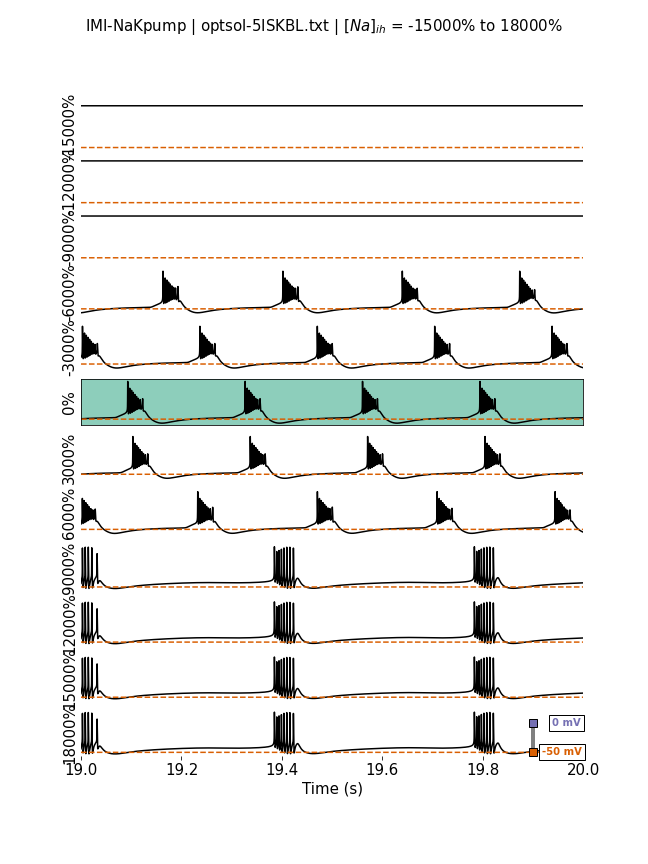
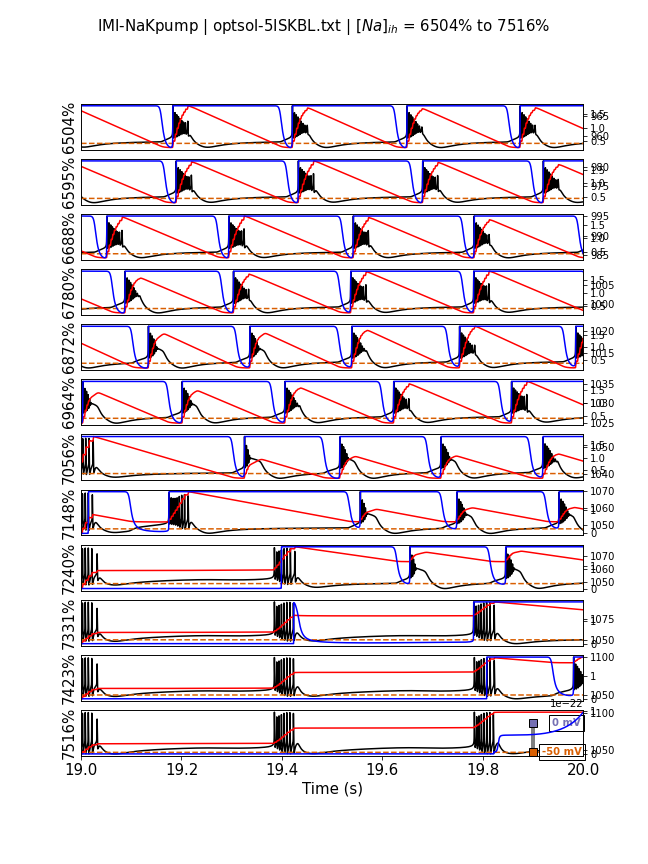
Analyze transition for Na_ih

Changed region(s): [[0.0926, 0.0938, 0.9568, 0.9062], [0.1235, 0.0, 0.6173, 0.0625], [0.6481, 0.0, 0.8642, 0.0625]]

diff --git a/plotpumps.py b/plotpumps.py
@@ -155,12 +155,12 @@ p = originalp.copy()
 np.savetxt(pfname, p)
 #%%
 
-# Plot Na_ih varied from -1500% to 1800% of control
+# Plot Na_ih varied from 6504% to 7516% of control
 fig, axs = plt.subplots(12, sharex=True, figsize=(9,12))
 for i in range(12):
 	# Vary Na_ih by specified factor
 	p = originalp.copy()
-	factor = round((i - 5) * 3, 1)
+	factor = round((i + 70.7) * 0.92, 2)
 	percentage = int(factor * 100)
 	p[42] = p[42] * factor
 	print(f'{p[42] = }')
@@ -174,12 +174,14 @@ for i in range(12):
 
 	# Plot the varied parameter set
 	axs[i].plot(time[time>19], sol[:,0][time>19], color='black')
+	axs[i].twinx().plot(time[time>19], sol[:,-1][time>19], color='red')
+	axs[i].twinx().plot(time[time>19], getipump(p,sol)[time>19], color='blue')
 	axs[i].plot(time[time>19], -50*np.ones(len(sol))[time>19], color='#d95f02', ls='dashed')
 	axs[i].tick_params(left=False, bottom=False, labelleft=False, labelbottom=False)
-	if i != 5:
-		axs[i].set_frame_on(False)
-	else:
-		axs[i].set_facecolor('#1b9e7780')
+	# if i != 5:
+	axs[i].set_frame_on(False)
+	# else:
+		# axs[i].set_facecolor('#1b9e7780')
 	
 	if i == 11:
 		axs[i].vlines(19.9, -50, 0, color='#808080', lw=4, zorder=10)
@@ -200,7 +202,7 @@ for i in range(12):
 	axs[i].set_ylabel(f'{percentage}%', fontsize=15, color='black')
 	axs[i].set_xlim(19,20)
 
-fig.suptitle(f'IMI-NaKpump | {pfname} | $[Na]_{{ih}}$ = -1500% to 1800%', fontsize=15)
+fig.suptitle(f'IMI-NaKpump | {pfname} | $[Na]_{{ih}}$ = 6504% to 7516%', fontsize=15)
 fig.savefig('varied-Na_ih-'+hashname+'.png')
 
 # Restore control parameter set
